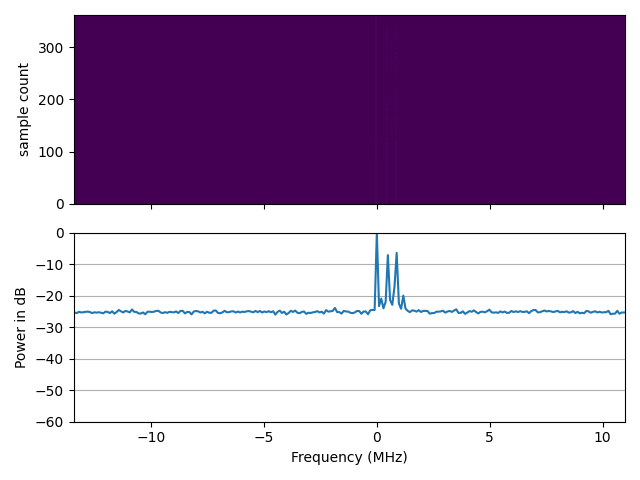
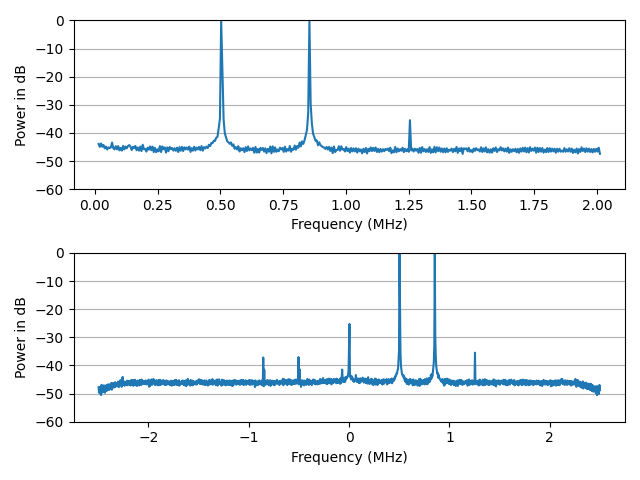
Update hardware parameters that produce good output

diff --git a/test_scripts/tone_test_spectrogram.py b/test_scripts/tone_test_spectrogram.py
@@ -8,18 +8,25 @@ if __name__ == "__main__":
     chann_iq = np.fromfile("../iq/tone_channelized.32cf", dtype="complex64")
 
     # Plot Channogram and ChannPsd
-    fig, ax = plt.subplots(2, 1) 
+    # fig, ax = plt.subplots(3, 1) 
+    fig, ax = plt.subplots(2,1)
     reshaped_iq = np.abs(chann_iq).reshape((1024, -1))[400:650,150:].transpose()[:, ::-1]
     slice_dim = chann_iq.reshape(1024, -1).shape[1]
     reduced_iq = np.sum(np.square(np.abs(chann_iq.reshape(1024, -1))[:, 150:]), axis=1) / slice_dim
     reduced_iq = 10*np.log10(reduced_iq / np.max(reduced_iq))
 
-    c = ax[0].pcolor(50.0 - 100.0 * np.array([ind for ind in range(400, 650)][::-1]).astype("float32") / 1024, np.arange(reshaped_iq.shape[0]), reshaped_iq, vmax=80)
+    # c = ax[0].pcolor(2.5 - 5.0 * np.array([ind for ind in range(400, 650)][::-1]).astype("float32") / 1024, np.arange(reshaped_iq.shape[0]), reshaped_iq, vmax=80)
     os.makedirs("../images", exist_ok=True)
     #fig.colorbar(c, ax=ax[0])
-    ax[1].plot(50.0 - 100.0 * np.array([ind for ind in range(400, 510)][::-1]).astype("float32") / 1024, reduced_iq[400:510][::-1])
+    ax[0].plot(2.5 - 5.0 * np.array([ind for ind in range(100, 510)][::-1]).astype("float32") / 1024, reduced_iq[100:510][::-1])
+    ax[1].plot(2.5 - 5.0 * np.array([ind for ind in range(0, 1024)][::-1]).astype("float32") / 1024, reduced_iq[::-1])
+    # ax[0].axes.set_aspect('auto')
+    # ax[0].axes.set_ylabel("sample count")
     ax[0].axes.set_aspect('auto')
-    ax[0].axes.set_ylabel("sample count")
+    ax[0].axes.set_xlabel("Frequency (MHz)")
+    ax[0].axes.set_ylabel("Power in dB")
+    ax[0].axes.set_ylim(-60.0, 0)
+    ax[0].axes.grid(axis="y", which="major")
     ax[1].axes.set_aspect('auto')
     ax[1].axes.set_xlabel("Frequency (MHz)")
     ax[1].axes.set_ylabel("Power in dB")
@@ -33,20 +40,20 @@ if __name__ == "__main__":
     Nwind = 1024 
     
     iq = np.fromfile("../iq/tones.32cf", dtype="complex64")
-    f, psd = sig.welch(iq, fs=100.0, window=("kaiser", 10.0), nperseg=Nwind, noverlap=Nover, nfft=Nfft, return_onesided=False)
-    fsp, t, spec = sig.spectrogram(iq, fs=100.0, window=("kaiser", 10.0), nperseg=Nwind, noverlap=Nover, nfft=Nfft, return_onesided=False)
+    f, psd = sig.welch(iq, fs=5.0, window=("kaiser", 10.0), nperseg=Nwind, noverlap=Nover, nfft=Nfft, return_onesided=False)
+    fsp, t, spec = sig.spectrogram(iq, fs=5.0, window=("kaiser", 10.0), nperseg=Nwind, noverlap=Nover, nfft=Nfft, return_onesided=False)
     new_fig, new_ax = plt.subplots(2,1,sharex=True)
     reshaped_spec = np.fft.fftshift(np.abs(spec), axes=0)[::-1][400:650, :].transpose()
-    c = new_ax[0].pcolor(np.fft.fftshift(fsp)[400:650], t, reshaped_spec, vmax=10)
+    # c = new_ax[0].pcolor(np.fft.fftshift(fsp)[400:650], t, reshaped_spec, vmax=10)
     reduced_psd = 10*np.log10(np.fft.fftshift(psd) / np.max(psd))
-    new_ax[1].plot(np.fft.fftshift(f)[400:650], reduced_psd[::-1][400:650])
+    new_ax[0].plot(np.fft.fftshift(f)[400:650], reduced_psd[::-1][400:650])
+    # new_ax[0].axes.set_aspect('auto')
+    # new_ax[0].axes.set_ylabel("sample count")
     new_ax[0].axes.set_aspect('auto')
-    new_ax[0].axes.set_ylabel("sample count")
-    new_ax[1].axes.set_aspect('auto')
-    new_ax[1].axes.set_xlabel("Frequency (MHz)")
-    new_ax[1].axes.set_ylabel("Power in dB")
-    new_ax[1].axes.set_ylim(-60.0, 0)
-    new_ax[1].axes.grid(axis="y", which="major")
+    new_ax[0].axes.set_xlabel("Frequency (MHz)")
+    new_ax[0].axes.set_ylabel("Power in dB")
+    new_ax[0].axes.set_ylim(-60.0, 0)
+    new_ax[0].axes.grid(axis="y", which="major")
 
 
     new_fig.tight_layout()

diff --git a/channelizer/examples/three_tone_ota_test.rs b/channelizer/examples/three_tone_ota_test.rs
@@ -7,21 +7,22 @@ use std::{
     f32::consts::PI,
     io::{ Write},
     sync::{Arc, Mutex},
+    cmp,
 };
 
 const DEFAULT_CHANNEL: usize = 0;
 
 const TX_ANTENNA: &str = "TX/RX";
-const TX_ADDR: &str = "192.168.101.18";
-const TX_USRP_TYPE: &str = "n3xx";
+const TX_ADDR: &str = "192.168.101.20";
+const TX_USRP_TYPE: &str = "x300";
 const TX_MCR: usize = 200_000_000;
-const TX_NORM_GAIN: f64 = 0.8;
+const TX_NORM_GAIN: f64 = 0.2;
 
 const RX_ANTENNA: &str = "TX/RX";
-const RX_ADDR: &str = "192.168.101.11";
+const RX_ADDR: &str = "192.168.101.16";
 const RX_USRP_TYPE: &str = "n3xx";
 const RX_MCR: usize = 200_000_000;
-const RX_NORM_GAIN: f64 = 0.35;
+const RX_NORM_GAIN: f64 = 0.6;
 
 fn main() {
     let nch = 1024;
@@ -49,8 +50,10 @@ fn main() {
     let fc1: f32 = 0.5e6;
     let fc2: f32 = 1.25e6;
     let fc3: f32 = 0.85e6;
-    let a2_db: f32 = -35.0;
-    let fs: f32 = 100e6;
+
+    let a2_db: f32 = -17.5;
+    let mut amplitude: f32 = 0.52;
+    let fs: f32 = 5e6;
 
     let mut chann_obj = ChunkChannelizer::new(filter.as_mut_slice(), ntaps, nch, nslice);
 
@@ -59,16 +62,31 @@ fn main() {
 
     baseband.iter_mut().enumerate().for_each(|(ind, elem)| {
         *elem = Complex::new(
-            (2.0 * PI * fc1 * (ind as f32) / fs).cos(),
-            (-2.0 * PI * fc1 * (ind as f32) / fs).sin(),
+            amplitude * (2.0 * PI * fc1 * (ind as f32) / fs).cos(),
+            amplitude * (-2.0 * PI * fc1 * (ind as f32) / fs).sin(),
         ) + Complex::new(
-            (2.0 * PI * fc3 * (ind as f32) / fs).cos(),
-            (-2.0 * PI * fc3 * (ind as f32) / fs).sin(),
-        ) + Complex::new(
-            (2.0 * PI * fc2 * (ind as f32) / fs).cos() * 10.0f32.powf(a2_db / 20.0),
-            (-2.0 * PI * fc2 * (ind as f32) / fs).sin() * 10.0f32.powf(a2_db / 20.0),
+            amplitude * (2.0 * PI * fc3 * (ind as f32) / fs).cos(),
+            amplitude * (-2.0 * PI * fc3 * (ind as f32) / fs).sin(),
+        ) 
+        + Complex::new(
+            amplitude * (2.0 * PI * fc2 * (ind as f32) / fs).cos() * 10.0f32.powf(a2_db/10.0),
+            amplitude * (-2.0 * PI * fc2 * (ind as f32) / fs).sin() * 10.0f32.powf(a2_db/10.0),
         )
     });
+
+    let max_amp = baseband.iter()
+        .map(|c| c.norm())
+        .fold(0_f32, |max, amp| if amp > max { amp } else { max });
+
+    let mut normalized_baseband: Vec<_> = baseband.iter()
+        .map(|c| 0.8 * c / max_amp)
+        .collect();
+
+    let max_norm_amp = normalized_baseband.iter()
+        .map(|c| c.norm())
+        .fold(0_f32, |max, amp| if amp > max { amp } else { max });
+
+    println!("Max amplitude: {}", max_norm_amp);
 
     let radio_center_freq = 3.0e9;
 
@@ -164,7 +182,7 @@ fn main() {
             .get_tx_stream(&StreamArgs::<Complex<f32>>::new("sc16"))
             .expect("Failed to get TX stream");
 
-        let mut tx_buffer = Box::new(baseband.as_mut_slice());
+        let mut tx_buffer = Box::new(normalized_baseband.as_mut_slice());
 
         *tx_running.lock().unwrap() = true;
         for _ in 0..10 {
